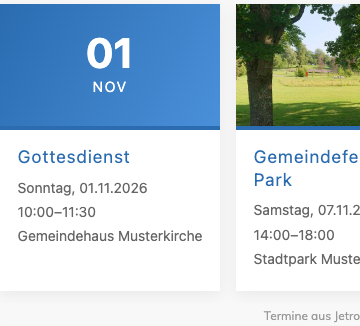
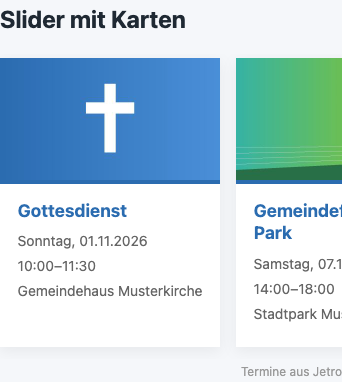
docs: Screenshots der Vorlagen aus der Musterkirche
- neu aufgenommen auf contao-demo.inri-consulting.de mit selbst erzeugten Grafiken
- ersetzt Aufnahmen von der FeG-Testseite mit Fotos fremder Herkunft

diff --git a/README.md b/README.md
@@ -75,7 +75,9 @@ bedienen und verzichten bei „Bewegung reduzieren“ auf Animationen. Fremde Sk
 ![Kompakte Karten](docs/vorlagen/kompakt-desktop.png)
 ![Liste mit Vorschaubild](docs/vorlagen/liste-desktop.png)
 
-Die Bilder zeigen Musterdaten; Ansichten fürs Handy liegen daneben (`*-mobil.png`).
+Die Bilder zeigen die Testinstallation „Musterkirche“ mit erfundenen Terminen; die Grafiken darin sind für dieses
+Projekt erzeugt und stehen wie die Screenshots unter der MIT-Lizenz des Pakets. Ansichten fürs Handy liegen daneben
+(`*-mobil.png`).
 
 Einrichtung:
 
